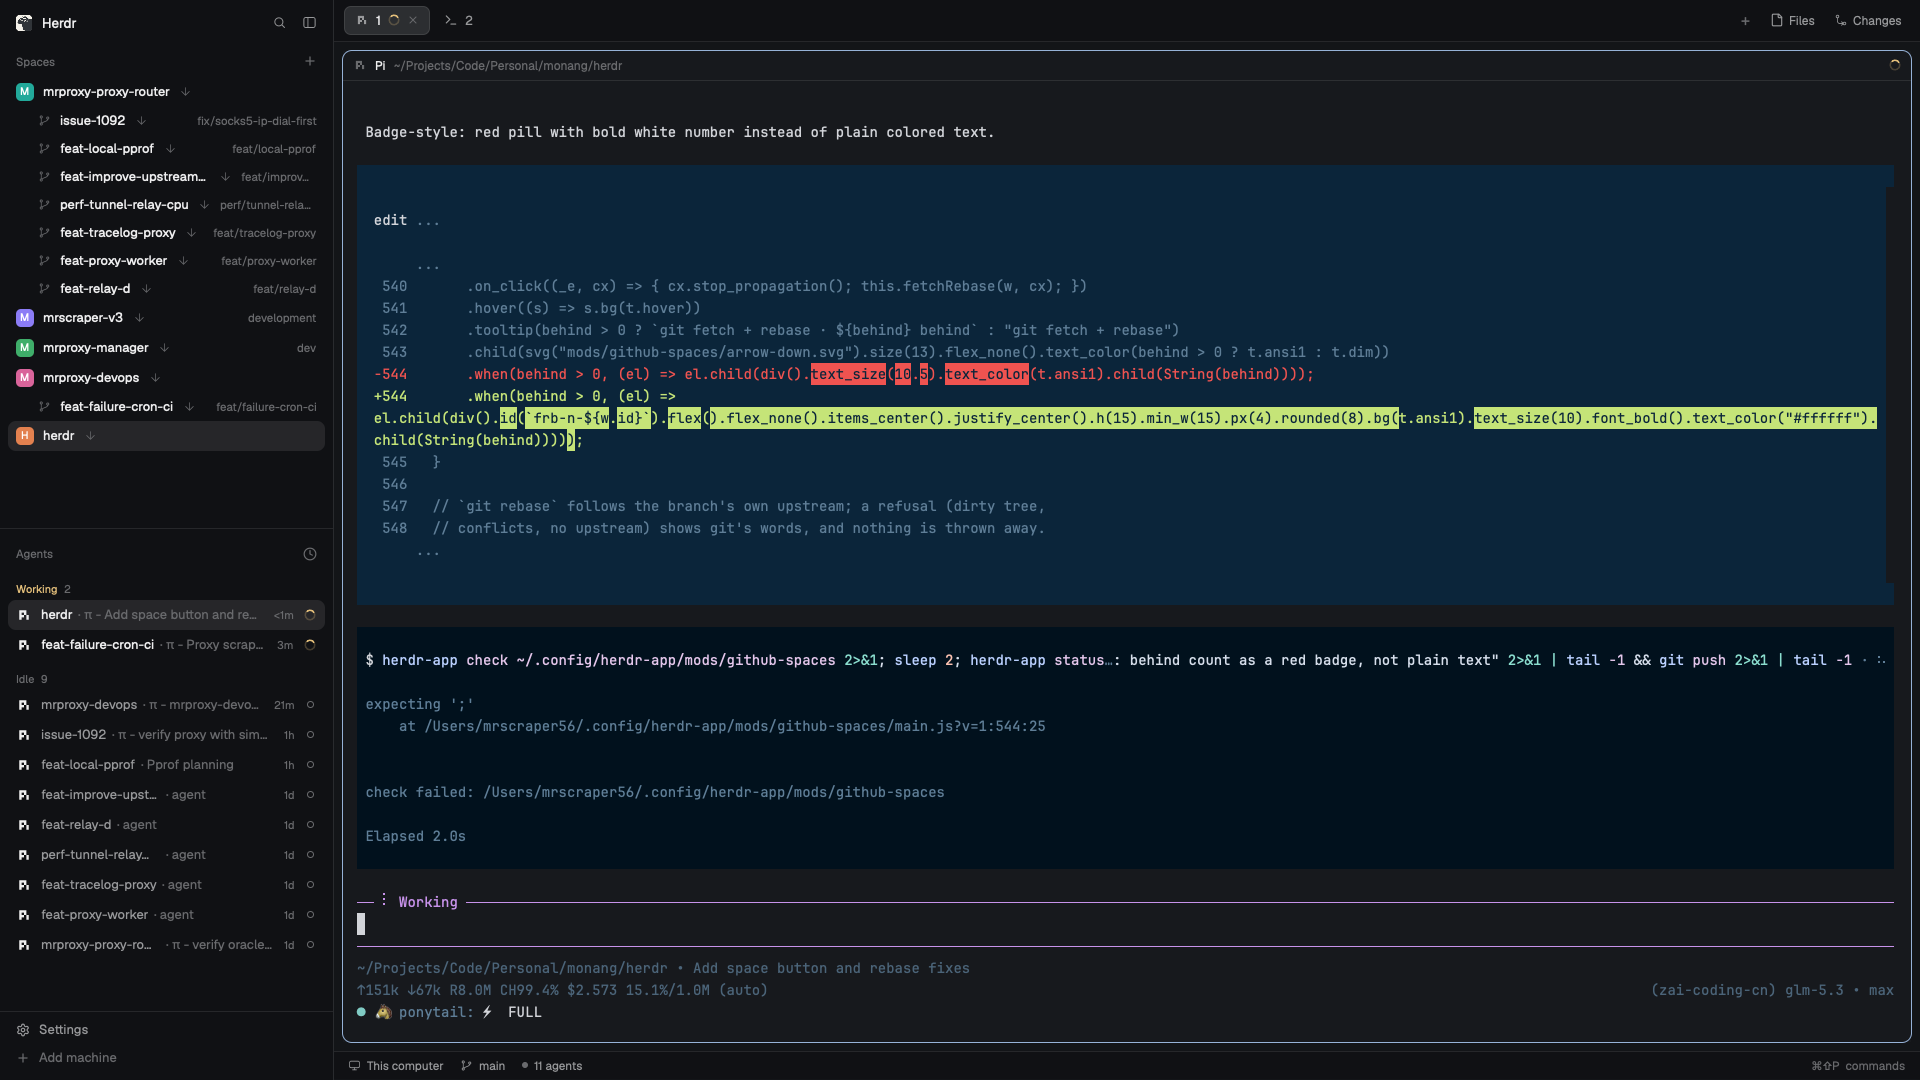
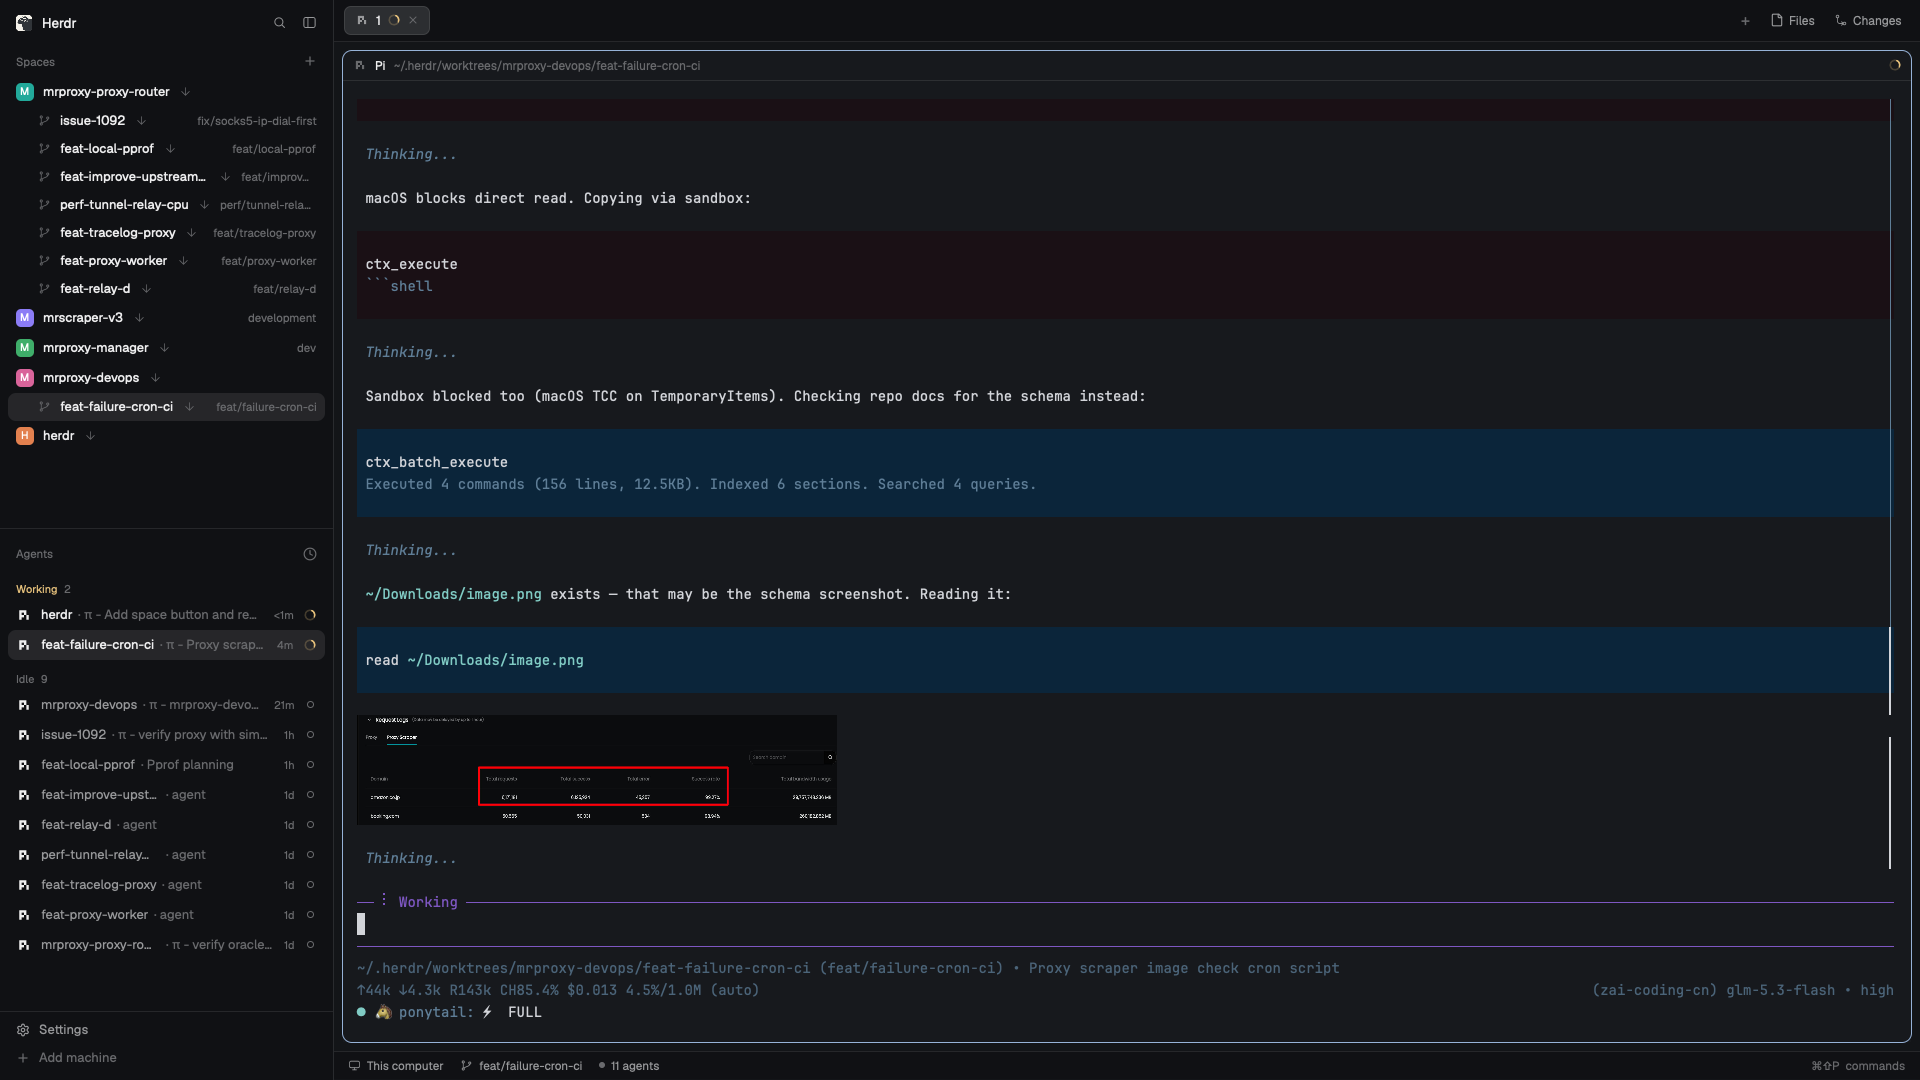
fix(github-spaces): syntax error in badge line

diff --git a/github-spaces/mods/github-spaces/main.js b/github-spaces/mods/github-spaces/main.js
@@ -541,7 +541,7 @@ export default class Spaces extends View {
       .hover((s) => s.bg(t.hover))
       .tooltip(behind > 0 ? `git fetch + rebase · ${behind} behind` : "git fetch + rebase")
       .child(svg("mods/github-spaces/arrow-down.svg").size(13).flex_none().text_color(behind > 0 ? t.ansi1 : t.dim))
-      .when(behind > 0, (el) => el.child(div().id(`frb-n-${w.id}`).flex().flex_none().items_center().justify_center().h(15).min_w(15).px(4).rounded(8).bg(t.ansi1).text_size(10).font_bold().text_color("#ffffff").child(String(behind)))));
+      .when(behind > 0, (el) => el.child(div().id(`frb-n-${w.id}`).flex().flex_none().items_center().justify_center().h(15).min_w(15).px(4).rounded(8).bg(t.ansi1).text_size(10).font_bold().text_color("#ffffff").child(String(behind))));
   }
 
   // `git rebase` follows the branch's own upstream; a refusal (dirty tree,
